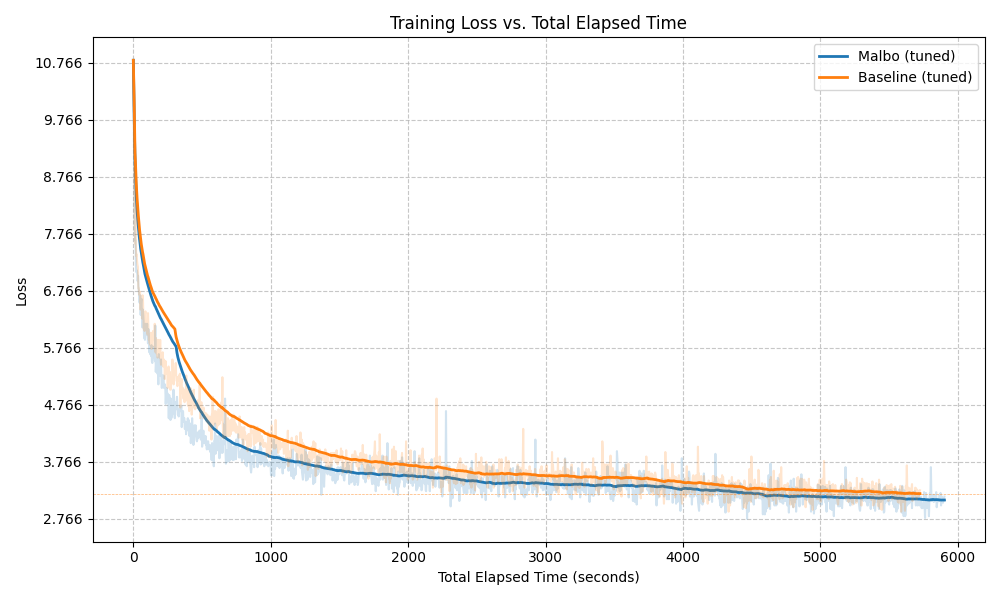
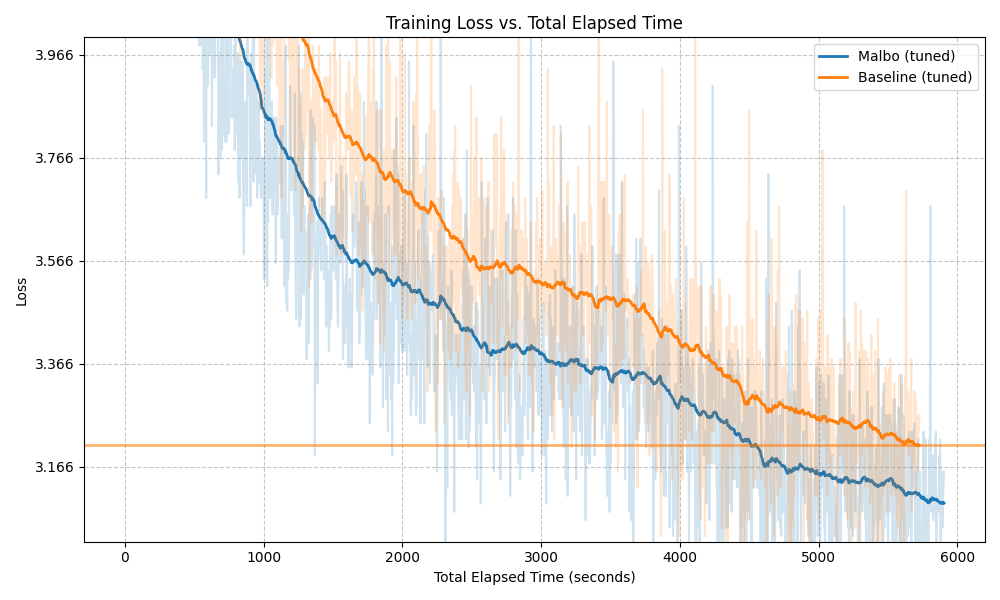
zoom

diff --git a/plot_loss.py b/plot_loss.py
@@ -73,7 +73,7 @@ for label, filename in files.items():
         plt.plot(df['time'], smoothed_loss - min_y_loss, linewidth=2, label=label, color=line.get_color())
 
         if label.startswith('Baseline'):
-            plt.axhline(smoothed_loss.iloc[-1] - min_y_loss, linestyle='--', linewidth=0.5, alpha=0.6, color=line.get_color())
+            plt.axhline(smoothed_loss.iloc[-1] - min_y_loss, linestyle='-', linewidth=2.0, alpha=0.6, color=line.get_color())
     except FileNotFoundError:
         print(f"File {filename} not found.")
 
@@ -83,12 +83,10 @@ ax.yaxis.set_minor_formatter(ticker.FuncFormatter(format_loss))
 
 plt.xlabel('Total Elapsed Time (seconds)')
 plt.ylabel('Loss')
+plt.ylim([3.02 - min_y_loss, 4 - min_y_loss])
 plt.title('Training Loss vs. Total Elapsed Time')
 plt.legend()
 plt.grid(True, linestyle='--', alpha=0.7)
-
-# Optional: Log scale for X-axis if the first step setup time is very large
-# plt.xscale('log') 
 
 plt.tight_layout()
 plt.savefig('loss_plot.tunedlr.png' if tuned else 'loss_plot.png')
